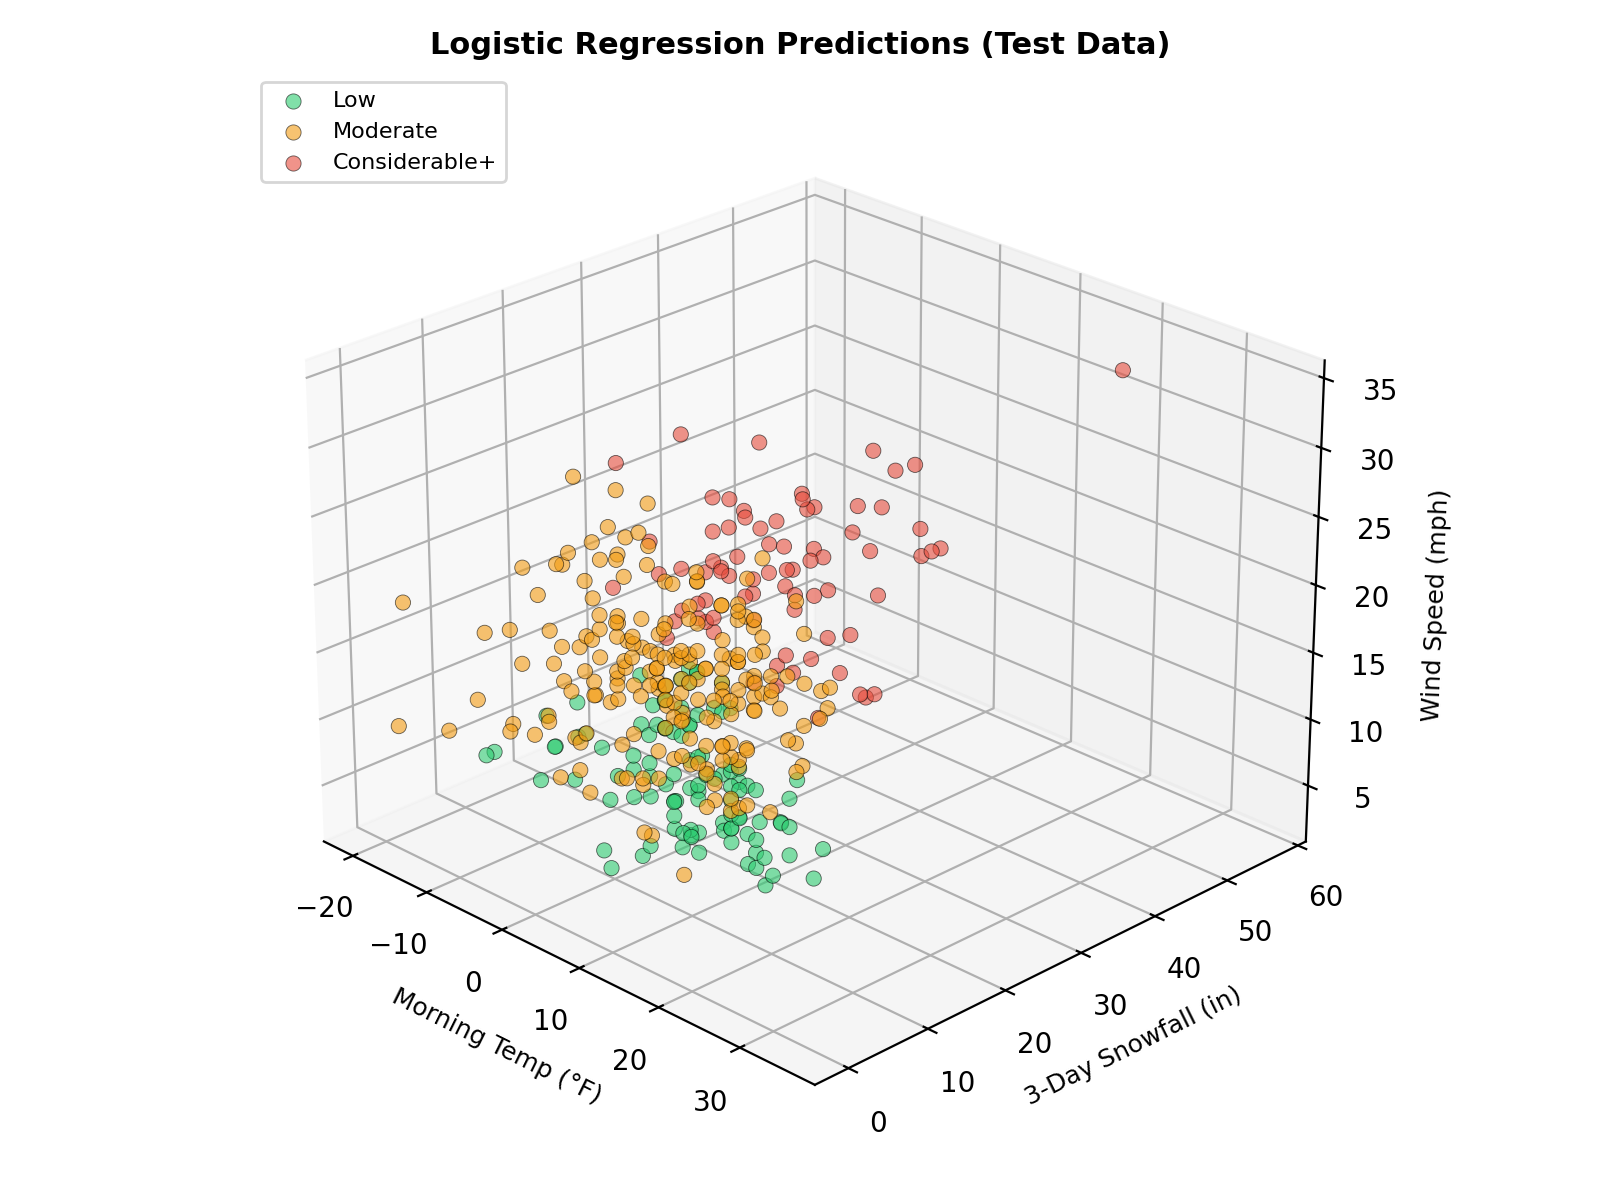
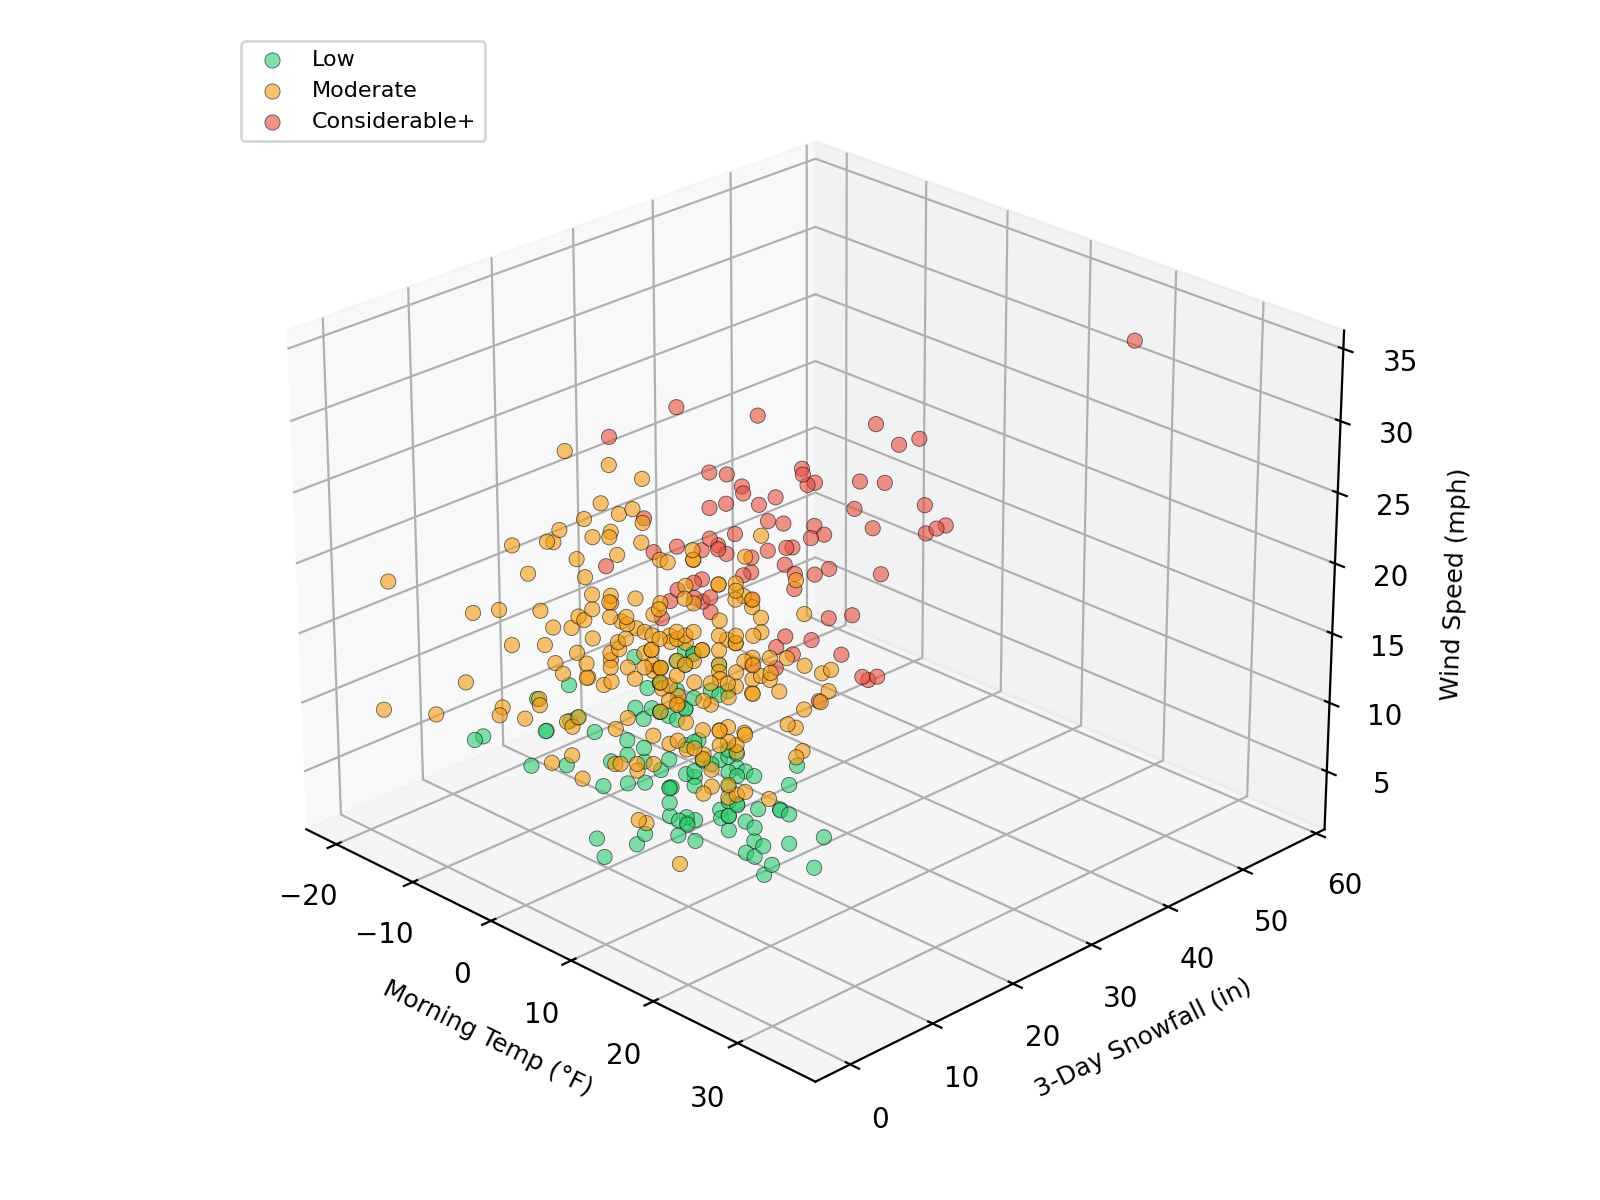
Remove figure titles

diff --git a/src/plot_3d.py b/src/plot_3d.py
@@ -43,7 +43,7 @@ def plot_3d(ax, X, y, title):
     ax.set_xlabel("Morning Temp (°F)", fontsize=9)
     ax.set_ylabel("3-Day Snowfall (in)", fontsize=9)
     ax.set_zlabel("Wind Speed (mph)", fontsize=9)
-    ax.set_title(title, fontsize=11, fontweight="bold")
+
     ax.view_init(elev=25, azim=135)
     ax.invert_xaxis()
     ax.invert_yaxis()
@@ -77,7 +77,7 @@ for bar, val in zip(bars, [importances[i] for i in idx]):
     ax4.text(bar.get_x() + bar.get_width()/2, bar.get_height() + 0.01,
              f"{val*100:.1f}%", ha="center", fontsize=11, fontweight="bold")
 ax4.set_ylabel("Importance")
-ax4.set_title("Random Forest Feature Importances", fontsize=13, fontweight="bold")
+
 ax4.set_ylim(0, max(importances) + 0.08)
 ax4.grid(True, axis="y", alpha=0.3)
 fig4.tight_layout()
